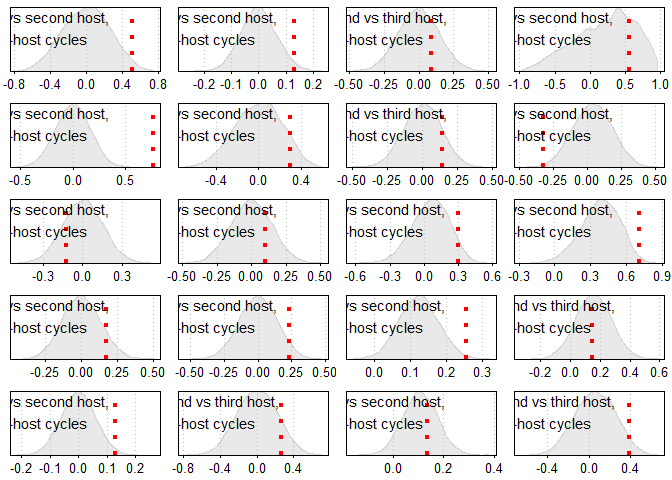
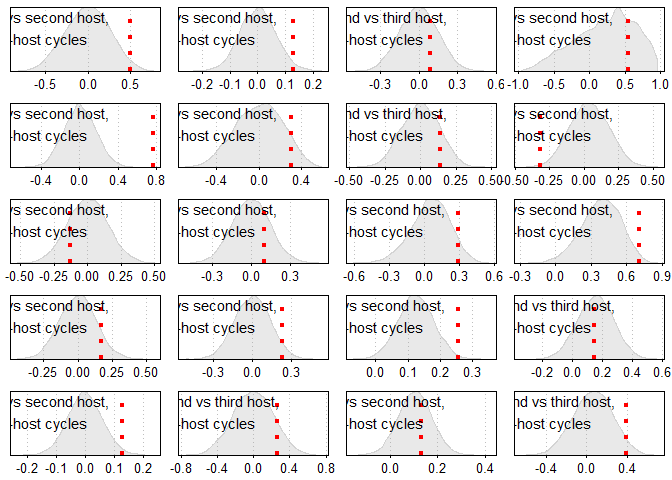
re-knit md file

diff --git a/decoupling.md b/decoupling.md
@@ -1,7 +1,7 @@
 Decoupled life stages
 ================
 
-This script explores how successive stages in the life cycle of a parasite may or may not be decoupled from one another. In other words, are there correlations for traits across the stages of a parasite's life cycle? For example, if a parasite is large as a larva, is it large as an adult too? If a parasite develops slowly as a larva, does it develop slowly as an adult too? From an adaptationist perspective, we expect no correlations, because each stage should be able to adapt somewhat independently to its niche/host. That said, correlations across stages may exist for both adaptive reasons (e.g. a correlation in the quality of intermediate and definitive hosts) and non-adaptive reasons (e.g. developmental constraints). I explore this using a [database](http://onlinelibrary.wiley.com/doi/10.1002/ecy.1680/suppinfo) of helminth (parasitic worm) life cycles.
+This script explores how successive stages in the life cycle of a parasite may or may not be decoupled from one another. In other words, are there trait correlations spanning the multiple stages of a parasite's life cycle? For example, if a parasite is large as a larva, is it large as an adult too? If a parasite develops slowly as a larva, does it develop slowly as an adult too? From an adaptationist perspective, we expect no correlations, because each stage should be able to evolve independently to its niche/host. That said, correlations across stages may exist for both adaptive reasons (e.g. a correlation in the quality of intermediate and definitive hosts) and non-adaptive reasons (e.g. developmental constraints). I explore this using a [database](http://onlinelibrary.wiley.com/doi/10.1002/ecy.1680/suppinfo) of helminth (parasitic worm) life cycles.
 
 Import the data, set plotting theme.
 
@@ -27,7 +27,7 @@ dataH <- read.csv(file="data/CLC_database_hosts.csv", header = TRUE, sep=",")
 dataL <- read.csv(file="data/CLC_database_lifehistory.csv", header = TRUE, sep=",")
 ```
 
-We start by looking at body size correlations across life stages. On the basis of length, width, and shape, we calculate a body mass for parasites. Also, remove asex species.
+We'll look at three traits measured at the 'stage' level in the database: body size, development time, and host specificity. We start by looking at body size correlations across life stages. On the basis of length, width, and shape, we calculate a body mass for parasites. Also, we remove asexual species.
 
 ``` r
 dataL <- mutate(dataL, biovolume = 
@@ -74,7 +74,7 @@ rm(eggos, eggos2)
 dataL <- filter(dataL, !(Host.no == 0 & Stage != propagule_selector))
 ```
 
-Select relevant columns and calculate average body sizes for each species at each stage of the life cycle.
+For each species, we calculate average body sizes at each stage of the life cycle.
 
 ``` r
 dataL.sp <- select(dataL, Parasite.species, Host.no, biovolume)%>%
@@ -83,7 +83,7 @@ dataL.sp <- select(dataL, Parasite.species, Host.no, biovolume)%>%
   mutate(biovolume = log10(biovolume))
 ```
 
-Next we make the long data wide, such that parasite body size in the first host, second host, etc. are in the sample row.
+Next we make the long data wide, such that parasite body size in the first host, second host, etc. are in separate columns.
 
 ``` r
 dataL.sp <- spread(dataL.sp, key = Host.no, value = biovolume)
@@ -91,7 +91,7 @@ dataL.sp <- rename(dataL.sp, propagule = `0`, first_host = `1`, second_host = `2
                    third_host = `3`, fourth_host = `4`, fifth_host = `5`)
 ```
 
-Add life cycle lengths to the adult sizes.
+Add life cycle lengths to the body size table.
 
 ``` r
 maxLCL <- group_by(dataH, Parasite.species)%>%summarize(maxLCL = max(Host.no))
@@ -112,7 +112,7 @@ dataL.sp <- mutate( ungroup(dataL.sp), maxLCL.fac = if_else(maxLCL > 3, "4", as.
 dataL.sp <- left_join(dataL.sp, select(dataL, Parasite.species, Parasite.group)%>%distinct() )
 ```
 
-Now the data is suitable for looking at body size correlations. We look separately each life cycle length (1-host, 2-host, etc). First, there is not much of a correlation between propagule and adult size in simple life cycle parasites.
+Now we can look at body size correlations. We look separately each life cycle length (1-host, 2-host, etc). First, there is not much of a correlation between propagule and adult size in simple life cycle parasites.
 
 ``` r
 cor( filter(dataL.sp, maxLCL == 1)%>%select(propagule:first_host), use = "pairwise.complete.obs")
@@ -140,9 +140,9 @@ ggpairs(filter(dataL.sp, maxLCL == 3), columns = c("propagule", "first_host", "s
 
 ![](decoupling_files/figure-markdown_github-ascii_identifiers/unnamed-chunk-11-1.png)
 
-The data support the idea that there are weak correlations between body sizes at consecutive life stages. This is expected to some degree, because big larvae will not be tiny adults, unless the all other worms grow extensively as adults. Below, I used a permutation to try to deal with 'built-in' correlation.
+The data support the idea that there are weak correlations between body sizes at consecutive life stages. This is expected to some degree, because big larvae will not be tiny adults, unless all worms grow extensively as adults (i.e. only if larval growth is a small fraction of total growth). Below, I use a permutation to try and deal with this 'built-in' correlation.
 
-Let's move on to the next trait: development time. First, wrangle the data in a similar way to body size. We focus on degree days as the measure of development time, given that development is usually a function of temperature.
+Let's move on to the next trait: development time. First, we wrangle the data in a similar way to body size. We focus on degree days as the measure of development time, given that development is usually a function of temperature and this at least partially accounts for temperature's effect.
 
 ``` r
 # calculate degree days, get species averages
@@ -177,7 +177,7 @@ cor( filter(datadt, maxLCL == 1)%>%select(propagule:first_host), use = "pairwise
     ## propagule  1.0000000  0.2381676
     ## first_host 0.2381676  1.0000000
 
-We can again plot a correlation matrix for worm with 2-host cycles. Most of these species do not develop in the propagule stage (i.e. while free in the environment, they do not embryonate or develop before hatching). The correlation of development times in the first and second hosts are positive for acanths and cestodes, but slightly negative for nematodes. This implies that long larval development is associated with long adult development, which is somewhat surprising, as it is not consistent with expected tradeoffs.
+We can again plot a correlation matrix for worms with 2-host cycles. Most of these species do not develop in the propagule stage (i.e. while free in the environment, they do not embryonate or develop before hatching), hence the absence of propagule correlations. The correlation of development times in the first and second hosts are positive for acanths and cestodes, but slightly negative for nematodes. This implies that long larval development is associated with long adult development, which is somewhat surprising, as one might expect more larval development to shorten adult development.
 
 ``` r
 ggpairs(filter(datadt, maxLCL == 2), columns = c("propagule", "first_host", "second_host"),
@@ -195,7 +195,7 @@ ggpairs(filter(datadt, maxLCL == 3), columns = c("propagule", "first_host", "sec
 
 ![](decoupling_files/figure-markdown_github-ascii_identifiers/unnamed-chunk-15-1.png)
 
-Let's look at the third trait: host specificity. Is host specificity at consecutive life stages correlated? We again wrangle the data into a usable format. We are using output from this [script](GITHUB), in which a host specificity index is calculated that accounts for the taxonomic similarity of hosts.
+Let's look at the third trait: host specificity. Is host specificity at consecutive life stages correlated? We again wrangle the data into a usable format. We are using output from this [script](https://github.com/dbenesh82/host_specificity_lcl_analyses/blob/master/calc_specificity/calc_specificity_patterns.md), in which a host specificity index is calculated that accounts for the taxonomic similarity of hosts.
 
 ``` r
 # import from host specificity analyses project
@@ -216,7 +216,7 @@ datahs <- mutate( datahs, maxLCL.fac = if_else(maxLCL > 3, "4", as.character(max
   mutate(maxLCL.fac = factor(maxLCL.fac, labels = c("1", "2", "3", ">3")))
 ```
 
-Produce the correlation matrix for two-host cycles. The distribution of the host specificity index is more right-skewed than the previous variables. That is not too surprising. Many parasites have only been recorded for one or two hosts at a given life stage. The correlations across stages are positive, but low.
+We produce the correlation matrix for host specificity for two-host cycles. The distribution of the host specificity index is more right-skewed than the previous variables. That is not too surprising. Many parasites have only been recorded for one or two hosts at a given life stage. The correlations across stages are positive, but low.
 
 ``` r
 ggpairs(filter(datahs, maxLCL == 2), columns = c("first_host", "second_host"),
@@ -225,7 +225,7 @@ ggpairs(filter(datahs, maxLCL == 2), columns = c("first_host", "second_host"),
 
 ![](decoupling_files/figure-markdown_github-ascii_identifiers/unnamed-chunk-17-1.png)
 
-We make the same figure for three-host cycles, and again find positive, but low correlations.
+We make the same figure for three-host cycles and again find positive, but low correlations.
 
 ``` r
 ggpairs(filter(datahs, maxLCL == 3), columns = c("first_host", "second_host", "third_host"),
@@ -234,7 +234,7 @@ ggpairs(filter(datahs, maxLCL == 3), columns = c("first_host", "second_host", "t
 
 ![](decoupling_files/figure-markdown_github-ascii_identifiers/unnamed-chunk-18-1.png)
 
-Now, we have looked at a lot of correlations, and they tend to be positive. But they also vary in sample sizes, distributions, expected correlations (e.g. expected to be positive for growth). To get more of an overview, let's get the sample size, the observed correlation, the expected correlation, and a plot showing the observed value compared to the expected distribution. For this, we make a function that we can use for different subsets of the data (filtered by life cycle length and parasite group).
+Now, we have looked at a lot of correlations, and they tend to be positive. But they also vary in sample sizes, distributions, and null expectations (e.g. expected to be positive for growth). To get more of an overview, let's get the sample size, the observed correlation, the expected correlation, and a plot showing the observed value compared to the expected distribution. For this, we make a function that we can use for different subsets of the data (filtered by life cycle length and parasite group).
 
 ``` r
 decouple <- function(data, lcl, pg, host1, host2){
@@ -342,7 +342,7 @@ hs_out8 <- decouple(data = datahs, lcl = 3, pg = 'cestode', 'second_host', 'thir
 hs_out9 <- decouple(data = datahs, lcl = 3, pg = 'nematode', 'second_host', 'third_host')
 ```
 
-We need to update this `decouple` function for comparing body size. Instead of randomly combining size in host 1 and host 2 to get a random expected distribution of correlations, we sample growth amounts by worms. We add this random amount of growth to the parasite size in the previous host. Thus, we are asking are the correlations more positive than expected.
+We need to update this `decouple` function for body size. Instead of randomly combining size in host 1 and size in host 2 to get a null distribution of correlations, we randomly sample growth of worms. We add this randomly sampled growth to parasite size in the previous host. Thus, we are asking: are the cross-stage body size correlations more positive than expected, given a random amount of growth?
 
 ``` r
 # test values
@@ -431,6 +431,8 @@ decouple_size <- function(data, lcl, pg, host1, host2){
 }
 ```
 
+Run the function for every combination of life cycle length and parasite taxa.
+
 ``` r
 bs_out1 <- decouple_size(data = dataL.sp, lcl = 2, pg = 'acanthocephalan', 'first_host', 'second_host')
 bs_out2 <- decouple_size(data = dataL.sp, lcl = 2, pg = 'cestode', 'first_host', 'second_host')
@@ -444,7 +446,7 @@ bs_out9 <- decouple_size(data = dataL.sp, lcl = 3, pg = 'nematode', 'second_host
 # throws errors, as log transform of negative values not possible
 ```
 
-We combine info from all these correlations into a dataframe. In some cases, sample sizes are obviously too low to be informative.
+We combine info from all these correlations into a dataframe.
 
 ``` r
 decoupled <- bind_rows(data.frame(dt_out1[1:7]),
@@ -479,69 +481,69 @@ decoupled
 ```
 
     ##               trait              pg lcl   n         obs      expected
-    ## 1         Devo time acanthocephalan   2  16  0.50446016  0.0030282271
-    ## 2         Devo time         cestode   2  39  0.76943392 -0.0003807470
-    ## 3         Devo time        nematode   2  47 -0.12638948  0.0012762554
+    ## 1         Devo time acanthocephalan   2  16  0.50446016  1.279458e-03
+    ## 2         Devo time         cestode   2  39  0.76943392 -1.288116e-03
+    ## 3         Devo time        nematode   2  47 -0.12638948  8.222781e-05
     ## 4         Devo time acanthocephalan   3   1          NA            NA
-    ## 5         Devo time         cestode   3   8 -0.49629385  0.0444478918
-    ## 6         Devo time        nematode   3   2 -1.00000000  1.0000000000
+    ## 5         Devo time         cestode   3   8 -0.49629385  4.847727e-02
+    ## 6         Devo time        nematode   3   2 -1.00000000  1.000000e+00
     ## 7         Devo time acanthocephalan   3   0          NA            NA
-    ## 8         Devo time         cestode   3   2 -1.00000000 -1.0000000000
+    ## 8         Devo time         cestode   3   2 -1.00000000  1.000000e+00
     ## 9         Devo time        nematode   3   0          NA            NA
-    ## 10 Host specificity acanthocephalan   2  58  0.17281693 -0.0003150558
-    ## 11 Host specificity         cestode   2 279  0.12836072 -0.0009213763
-    ## 12 Host specificity        nematode   2 236  0.12968419 -0.0016020803
-    ## 13 Host specificity acanthocephalan   3  22  0.30368535  0.0055892296
-    ## 14 Host specificity         cestode   3  49  0.10196941 -0.0013632968
-    ## 15 Host specificity        nematode   3  54  0.23257333  0.0017573512
-    ## 16 Host specificity acanthocephalan   3  22  0.26154271  0.0012411040
-    ## 17 Host specificity         cestode   3  49  0.08641958 -0.0023422461
-    ## 18 Host specificity        nematode   3  57  0.14167163  0.0044601662
-    ## 19        Body size acanthocephalan   2  41  0.29623153  0.0632109961
-    ## 20        Body size         cestode   2 184  0.25494247  0.1235933290
-    ## 21        Body size        nematode   2 152  0.13297407  0.1061441055
-    ## 22        Body size acanthocephalan   3   7  0.54996430  0.2580400057
-    ## 23        Body size         cestode   3  35 -0.31844540  0.0380656160
-    ## 24        Body size        nematode   3  23  0.70715141  0.3900226808
-    ## 25        Body size acanthocephalan   3  11  0.31890684  0.1335807653
-    ## 26        Body size         cestode   3  46  0.14665414  0.1559402527
-    ## 27        Body size        nematode   3  25  0.38993006  0.0627981215
+    ## 10 Host specificity acanthocephalan   2  58  0.17281693 -1.151910e-03
+    ## 11 Host specificity         cestode   2 279  0.12836072 -7.642128e-04
+    ## 12 Host specificity        nematode   2 236  0.12968419  5.749383e-04
+    ## 13 Host specificity acanthocephalan   3  22  0.30368535  8.938242e-03
+    ## 14 Host specificity         cestode   3  49  0.10196941 -1.629423e-03
+    ## 15 Host specificity        nematode   3  54  0.23257333  9.536276e-04
+    ## 16 Host specificity acanthocephalan   3  22  0.26154271 -4.708915e-03
+    ## 17 Host specificity         cestode   3  49  0.08641958 -2.068815e-03
+    ## 18 Host specificity        nematode   3  57  0.14167163  2.566286e-03
+    ## 19        Body size acanthocephalan   2  41  0.29623153  6.394090e-02
+    ## 20        Body size         cestode   2 184  0.25494247  1.245809e-01
+    ## 21        Body size        nematode   2 152  0.13297407  1.059307e-01
+    ## 22        Body size acanthocephalan   3   7  0.54996430  2.608404e-01
+    ## 23        Body size         cestode   3  35 -0.31844540  3.690392e-02
+    ## 24        Body size        nematode   3  23  0.70715141  3.914213e-01
+    ## 25        Body size acanthocephalan   3  11  0.31890684  1.297752e-01
+    ## 26        Body size         cestode   3  46  0.14665414  1.579341e-01
+    ## 27        Body size        nematode   3  25  0.38993006  6.586441e-02
     ##     p_val
-    ## 1  0.0481
+    ## 1  0.0476
     ## 2  0.0000
-    ## 3  0.3992
+    ## 3  0.3956
     ## 4      NA
-    ## 5  0.1657
-    ## 6  0.4947
+    ## 5  0.1634
+    ## 6  0.4951
     ## 7      NA
-    ## 8  0.9999
+    ## 8  0.4953
     ## 9      NA
-    ## 10 0.1910
-    ## 11 0.0287
-    ## 12 0.0438
-    ## 13 0.1824
-    ## 14 0.4850
-    ## 15 0.1000
-    ## 16 0.2430
-    ## 17 0.5453
-    ## 18 0.3079
-    ## 19 0.1480
-    ## 20 0.0165
-    ## 21 0.6955
-    ## 22 0.5276
-    ## 23 0.0081
-    ## 24 0.0487
-    ## 25 0.5193
-    ## 26 0.9415
-    ## 27 0.0926
+    ## 10 0.1835
+    ## 11 0.0302
+    ## 12 0.0454
+    ## 13 0.1840
+    ## 14 0.4736
+    ## 15 0.0869
+    ## 16 0.2255
+    ## 17 0.5509
+    ## 18 0.3030
+    ## 19 0.1566
+    ## 20 0.0147
+    ## 21 0.6978
+    ## 22 0.5231
+    ## 23 0.0097
+    ## 24 0.0517
+    ## 25 0.5065
+    ## 26 0.9221
+    ## 27 0.0930
 
-Let's arbitrarily restrict ourselves to correlations with at least 10 species.
+In some cases, sample sizes are obviously too low to be informative. Let's arbitrarily restrict ourselves to correlations with at least 10 species.
 
 ``` r
 decoupled <- filter(decoupled, n > 10)
 ```
 
-That leaves 20 correlations. Of these, 7 are significant according to our two-sided permutation test, or 35 percent.
+That leaves 20 correlations. Of these, 6 are significant according to our two-sided permutation test, or 30 percent.
 
 In most cases, the correlations are more positive than we expected based on random permutations. In 85 percent of cases, the observed correlation coefficient was larger than the random expectation. We can also visualize how the observed correlations differed from expectations. For all 20 correlations, we plot the expected distribution, based on the permutations, and indicate the observed value with a red line. In most cases, the observed value is falling on the right-hand side of the distribution, i.e. the correlation is more positive than expected.
 
@@ -562,3 +564,5 @@ multiplot(dt_out1$out_plot, dt_out2$out_plot, dt_out3$out_plot, hs_out1$out_plot
 ```
 
 (Note: getting the text size for annotations correct in the figure is challenging and would take some more trial and error)
+
+In sum, this is mixed evidence for decoupling. There is an overabundance of positive correlations between traits expressed in successive hosts, but the correlations are generally weak.
